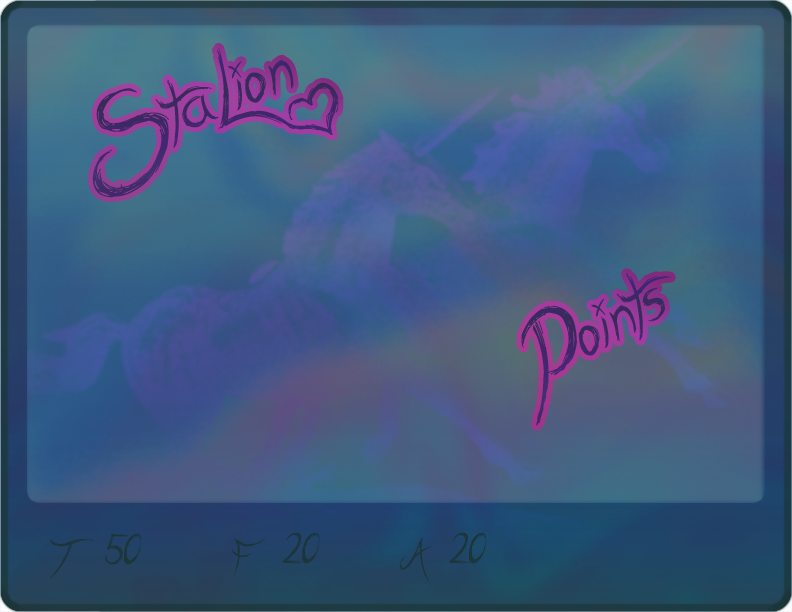
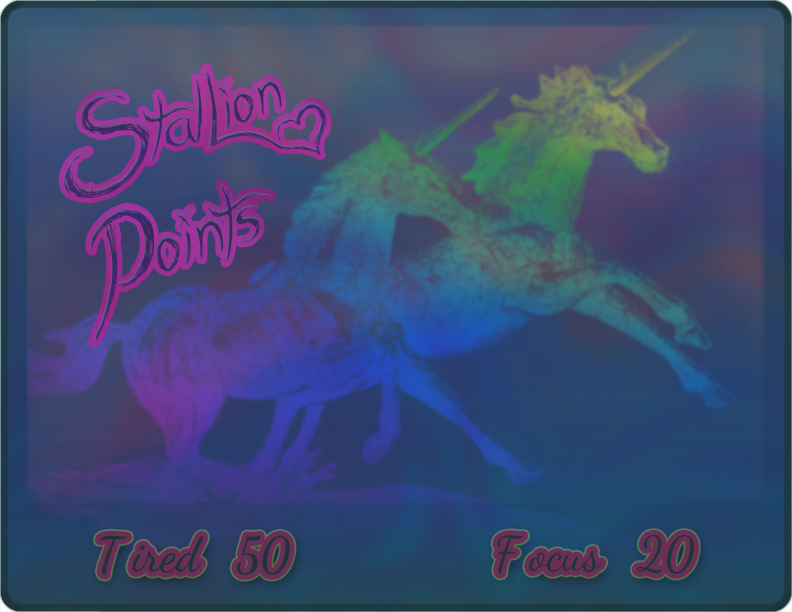
removed trails being imprinted into the background during visual updates of motion.

diff --git a/source/examplegame/quickgame/quickgame.cpp b/source/examplegame/quickgame/quickgame.cpp
@@ -20,23 +20,21 @@ void quickgame::start(keyboardMouseInput* setKeyboardMouseInput)
     keyboardmouse_input = setKeyboardMouseInput;
     keyboardmouse_input->start();
 
-
-    transparent_background = new gameobject();
-    transparent_background->start(QImage(QString(":/examplegame/quickimage/image/transparent_background.png")));
-    transparent_background->updateImageSpecifications(0,0,1920,1080,1);
-
+    transparent_background = new gameobject();//Ensures visual updates do not trail and imprint into the background.
+    transparent_background->start(QImage(QString(":/examplegame/quickgame/image/transparent_background.png")));
+    transparent_background->updateImageSpecifications(1,1,1920,1080,0.01);
 
     cardStallion = new card_creature();
     cardStallion->start(QString(":/examplegame/quickgame/image/card/creature/creature_stallion.png"));
-    cardStallion->updateImageSpecifications(710, 380, 200, 270, 1);
-
+    cardStallion->updateImageSpecifications(710, 170, 200, 270, 1);
 
     cardModusPraecptumStallion = new card_moduspraecptum();
     cardModusPraecptumStallion->start(QString(":/examplegame/quickgame/image/card/moduspraecptum/moduspraecptum-stallion.png"), QStringList());
-    cardModusPraecptumStallion->updateImageSpecification(200, 370, 500, 300, 0.95);
+    cardModusPraecptumStallion->updateImageSpecification(100, 100, 500, 320, 1);
 
     cardTurnActivatedAttackStallion = new card_turnactivatedcard();
-    cardTurnActivatedAttackStallion->start(QString(":/examplegame/quickgame/image/card/moduspraecptum/moduspraecptum-stallion.png"), QStringList());
+    cardTurnActivatedAttackStallion->start(QString(":/examplegame/quickgame/image/card/turnactivatedcard/turnactivatedcard.png"), QStringList());
+    cardTurnActivatedAttackStallion->updateImageSpecifications(100, 500, 300, 420, 1);
 
     module_highlightable_card = new module_card_hightlightable();
     module_highlightable_card->start(keyboardmouse_input);
@@ -45,16 +43,17 @@ void quickgame::start(keyboardMouseInput* setKeyboardMouseInput)
     logicWakeupTimer->setInterval(5);
     QObject::connect(logicWakeupTimer, SIGNAL(timeout()), this, SLOT(iterate_logic()));
     logicWakeupTimer->start();
-
 }
 
 
 QList<gameobject*> quickgame::frame()
 {
     goList.clear();
+
     goList.append(transparent_background);
     goList.append(cardStallion->gameObject());
     goList.append(cardModusPraecptumStallion->gameObject());
+    goList.append(cardTurnActivatedAttackStallion->gameObject());
 
     //Return Prepared Frame
     return goList;
@@ -69,6 +68,14 @@ void quickgame::iterate_logic()
     if(keyboardmouse_input->isKeyEscapePressed()){ emit playerRequestingCloseGame(); }
 
     //Apply "highlightable" module
-    //module_highlightable_card->highlightable(cardStallion);
+    module_highlightable_card->highlightable(cardTurnActivatedAttackStallion);
 
+    //Temporary: move card a pixel to the right
+    QMap<QString, double> dimensions = cardStallion->dimensions();
+    double x = dimensions.value(QString("x"));
+    double y = dimensions.value(QString("y"));
+    double width = dimensions.value(QString("w"));
+    double height = dimensions.value(QString("h"));
+    x += 1;
+    cardStallion->updateImageSpecifications(x, y, width, height, 1);
 }

diff --git a/source/examplegame/quickgame/card/card_turnactivatedcard.cpp b/source/examplegame/quickgame/card/card_turnactivatedcard.cpp
@@ -4,3 +4,42 @@ card_turnactivatedcard::card_turnactivatedcard(QObject *parent) : QObject(parent
 {
 
 }
+
+
+void card_turnactivatedcard::start(QString imageUrl, QStringList turnactivatedcard_list)
+{
+    isHighlighted = true;
+    turnactivatedcardSourceImage = QImage(imageUrl);
+    turnactivatedcardImage = QImage(612, 792, QImage::Format_ARGB32);
+    QPainter painter(&turnactivatedcardImage);
+    painter.setRenderHint(QPainter::HighQualityAntialiasing);
+    painter.setOpacity(1);
+    painter.drawImage(QRectF(0,0,612,792), turnactivatedcardSourceImage);
+    turnactivatedcardGo = new gameobject();
+    turnactivatedcardGo->start(turnactivatedcardImage);
+
+    //Repaint image to have a "highlighted" surrounding.
+    turnactivatedcardHighlightedImage = QImage(612,792,QImage::Format_ARGB32);
+    QPainter painter2(&turnactivatedcardHighlightedImage);
+    painter2.setRenderHint(QPainter::HighQualityAntialiasing);
+    painter2.drawImage(QRectF(0,0,612,792), turnactivatedcardSourceImage, QRectF(0,0,612,792));
+    painter2.setOpacity(0.9);
+    QPen green;
+    green.setColor(QColor(Qt::green));
+    green.setStyle(Qt::SolidLine);
+    green.setWidth(20);
+    painter2.setPen(green);
+    painter2.drawRoundedRect(QRectF(0,0,612,792), 20, 20, Qt::AbsoluteSize);
+
+}
+
+gameobject* card_turnactivatedcard::gameObject(){ return turnactivatedcardGo; }
+
+void card_turnactivatedcard::highlighted(bool setIsHighlighted)
+{
+    isHighlighted = setIsHighlighted;
+    if(isHighlighted == true){ turnactivatedcardGo->start(turnactivatedcardHighlightedImage); }
+    else if(isHighlighted == false){ turnactivatedcardGo->start(turnactivatedcardImage); }
+}
+
+void card_turnactivatedcard::updateImageSpecifications(double x, double y, double width, double height, double opacity){ turnactivatedcardGo->updateImageSpecifications(x,y,width,height,opacity); }

diff --git a/source/examplegame/quickgame/card/card_creature.cpp b/source/examplegame/quickgame/card/card_creature.cpp
@@ -13,7 +13,7 @@ void card_creature::start(QString imageUrl)
     creatureCardImage = QImage(612,792,QImage::Format_ARGB32);
     QPainter painter(&creatureCardImage);
     painter.setRenderHint(QPainter::HighQualityAntialiasing);
-    painter.setOpacity(0.7);
+    painter.setOpacity(0.9);
     painter.drawImage(QRectF(0,0,612,792), creatureCardSourceImage, QRectF(0,0,612,792));
 
     creatureCardGameObject = new gameobject();
@@ -24,14 +24,16 @@ void card_creature::start(QString imageUrl)
     QPainter painter2(&creatureCardHighlightedImage);
     painter2.setRenderHint(QPainter::HighQualityAntialiasing);
     painter2.drawImage(QRectF(0,0,612,792), creatureCardSourceImage, QRectF(0,0,612,792));
-    painter2.setOpacity(0.6);
+    painter2.setOpacity(0.9);
     QPen green;
     green.setColor(QColor(Qt::green));
     green.setStyle(Qt::SolidLine);
     green.setWidth(30);
     painter2.setPen(green);
     painter2.drawRoundedRect(QRectF(0,0,612,792), 20, 20, Qt::AbsoluteSize);
+
 }
+
 
 gameobject* card_creature::gameObject(){ return creatureCardGameObject; }
 
@@ -42,7 +44,9 @@ void card_creature::highlighted(bool setIsHighlighted)
     }else if(isHighlighted == false){ creatureCardGameObject->start(creatureCardImage); }
 }
 
-void card_creature::updateImageSpecifications(double x, double y, double width, double height, qreal opacity)
+void card_creature::updateImageSpecifications(double x, double y, double width, double height, qreal opacity){ creatureCardGameObject->updateImageSpecifications(x, y, width, height, opacity); }
+
+QMap<QString, double> card_creature::dimensions()
 {
-    creatureCardGameObject->updateImageSpecifications(x, y, width, height, opacity);
+    return creatureCardGameObject->dimensions();
 }

diff --git a/source/examplegame/quickgame/card/card_moduspraecptum.cpp b/source/examplegame/quickgame/card/card_moduspraecptum.cpp
@@ -8,27 +8,27 @@ card_moduspraecptum::card_moduspraecptum(QObject *parent) : QObject(parent)
 void card_moduspraecptum::start(QString imageUrl, QStringList moduspraecptum_list)
 {
     moduspraecptumCardSourceImage = QImage(imageUrl);
-    moduspraecptumCardImage = QImage(612, 792, QImage::Format_ARGB32);
+    moduspraecptumCardImage = QImage(792, 612, QImage::Format_ARGB32);
     QPainter painter(&moduspraecptumCardImage);
     painter.setRenderHint(QPainter::HighQualityAntialiasing);
     painter.setOpacity(1);
-    painter.drawImage(QRectF(0,0,612,792), moduspraecptumCardSourceImage);
+    painter.drawImage(QRectF(0,0,792,612), moduspraecptumCardSourceImage);
 
     moduspraecptumGO = new gameobject();
     moduspraecptumGO->start(moduspraecptumCardImage);
 
     //Repaint image to have a "highlighted" surrounding.
-    moduspraecptumCardHighlightedImage = QImage(612, 792, QImage::Format_ARGB32);
+    moduspraecptumCardHighlightedImage = QImage(792, 612, QImage::Format_ARGB32);
     QPainter painter2(&moduspraecptumCardHighlightedImage);
     painter2.setRenderHint(QPainter::HighQualityAntialiasing);
-    painter2.drawImage(QRect(0,0,612,792), moduspraecptumCardSourceImage);
+    painter2.drawImage(QRect(0,0,792,612), moduspraecptumCardSourceImage);
     painter2.setOpacity(0.6);
     QPen green;
     green.setColor(QColor(Qt::green));
     green.setStyle(Qt::SolidLine);
     green.setWidth(30);
     painter2.setPen(green);
-    painter2.drawRoundedRect(QRectF(0,0,612,792), 20, 20, Qt::AbsoluteSize);
+    painter2.drawRoundedRect(QRectF(0,0,792,612), 20, 20, Qt::AbsoluteSize);
 }
 
 gameobject* card_moduspraecptum::gameObject(){ return moduspraecptumGO; }

diff --git a/source/examplegame/quickgame/module/card/module_card_hightlightable.cpp b/source/examplegame/quickgame/module/card/module_card_hightlightable.cpp
@@ -9,6 +9,9 @@ void module_card_hightlightable::start(keyboardMouseInput* setkeyboardmouse_inpu
 
 void module_card_hightlightable::highlightable(card_creature* card)
 {
+    bool mouseIsOverCard = this->mouseOverCardArea(card->gameObject()->dimensions());
+    card->highlighted(mouseIsOverCard);
+    /*
     //Check if mouse is hovering over card.
     QMap<QString, double> dimensions = card->gameObject()->dimensions();
     double x = dimensions.value(QString("x"));
@@ -27,9 +30,40 @@ void module_card_hightlightable::highlightable(card_creature* card)
         }
     }
     card->highlighted(highlighted);
+    */
 }
 
 void module_card_hightlightable::highlightable(card_moduspraecptum* card)
 {
 
+}
+
+void module_card_hightlightable::highlightable(card_turnactivatedcard* card)
+{
+    bool mouseIsOverCard = this->mouseOverCardArea(card->gameObject()->dimensions());
+    card->highlighted(mouseIsOverCard);
+}
+
+bool module_card_hightlightable::mouseOverCardArea(QMap<QString, double> dimensions)
+{
+    bool output = false;
+
+    //Check if mouse is hovering over card.
+    double x = dimensions.value(QString("x"));
+    double y = dimensions.value(QString("y"));
+    double width = dimensions.value(QString("w"));
+    double height = dimensions.value(QString("h"));
+
+    double mouseX = keyboardmouse_input->getMouseX();
+    double mouseY = keyboardmouse_input->getMouseY();
+    bool highlighted = false;
+    if(mouseX >= x && mouseX <= (x + width))
+    {
+        if(mouseY >= y && mouseY < (y + height)){
+            highlighted = true;
+        }
+    }
+
+    output = highlighted;
+    return output;
 }

diff --git a/source/examplegame/quickgame/card/card_turnactivatedcard.h b/source/examplegame/quickgame/card/card_turnactivatedcard.h
@@ -2,6 +2,9 @@
 #define CARD_TURNACTIVATEDCARD_H
 
 #include <QObject>
+#include <QImage>
+#include <QPainter>
+#include "gameengine/gameobject.h"
 
 class card_turnactivatedcard : public QObject
 {
@@ -9,7 +12,16 @@ class card_turnactivatedcard : public QObject
 public:
     explicit card_turnactivatedcard(QObject *parent = nullptr);
     void start(QString imageUrl, QStringList turnactivatedcard_list);
+    gameobject* gameObject();
+    void highlighted(bool setIsHighlighted);
+    void updateImageSpecifications(double x, double y, double width, double height, double opacity);
 
+private:
+    QImage turnactivatedcardSourceImage;
+    QImage turnactivatedcardImage;
+    QImage turnactivatedcardHighlightedImage;
+    gameobject* turnactivatedcardGo;
+    bool isHighlighted;
 
 signals:
 

diff --git a/source/examplegame/quickgame/module/card/module_card_hightlightable.h b/source/examplegame/quickgame/module/card/module_card_hightlightable.h
@@ -5,6 +5,8 @@
 #include "examplegame/quickgame/card/card_creature.h"
 #include "examplegame/keyboardMouseInput/keyboardmouseinput.h"
 #include "examplegame/quickgame/card/card_moduspraecptum.h"
+#include "examplegame/quickgame/card/card_turnactivatedcard.h"
+
 class module_card_hightlightable : public QObject
 {
     Q_OBJECT
@@ -13,6 +15,8 @@ public:
     void start(keyboardMouseInput* setkeyboardmouse_input);
     void highlightable(card_creature* card);
     void highlightable(card_moduspraecptum* card);
+    void highlightable(card_turnactivatedcard* card);
+    bool mouseOverCardArea(QMap<QString, double> dimensions);
 
 private:
     keyboardMouseInput* keyboardmouse_input;

diff --git a/source/examplegame/quickgame/card/card_creature.h b/source/examplegame/quickgame/card/card_creature.h
@@ -14,6 +14,7 @@ public:
     gameobject* gameObject();
     void highlighted(bool setIsHighlighted);
     void updateImageSpecifications(double x, double y, double width, double height, qreal opacity);
+    QMap<QString, double> dimensions();
 
 private:
     QImage creatureCardSourceImage;
